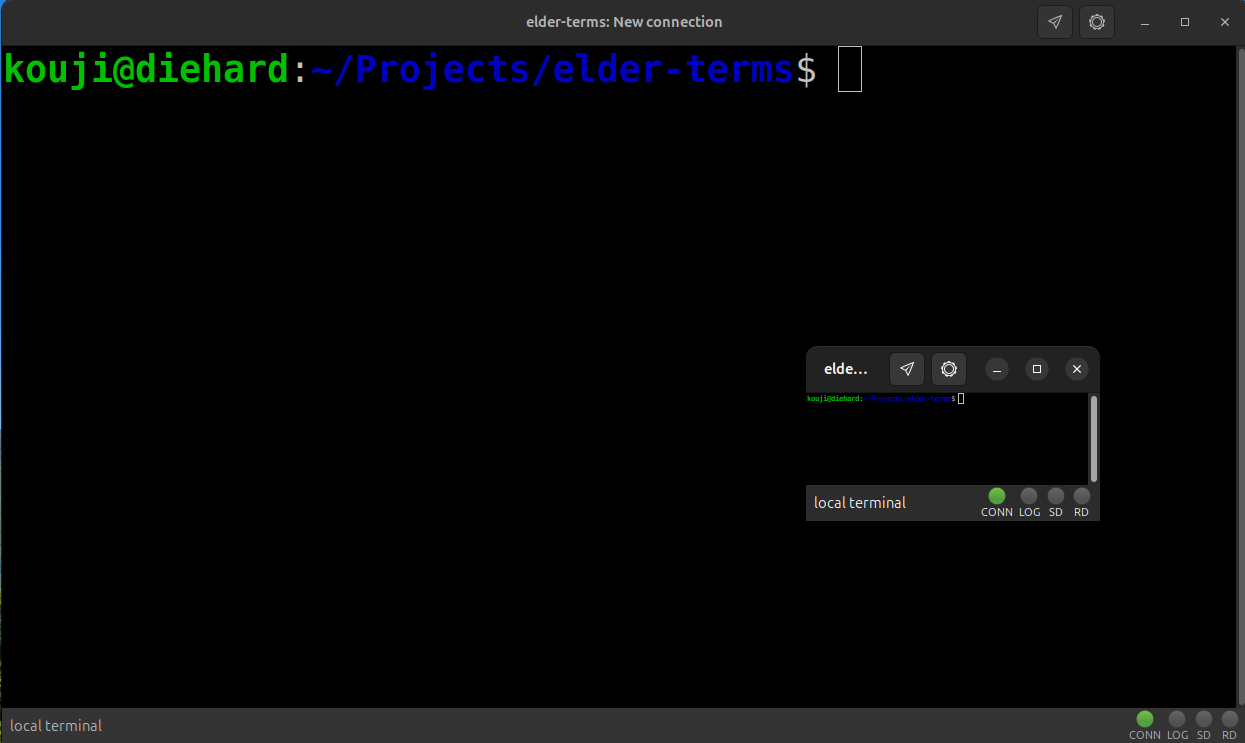
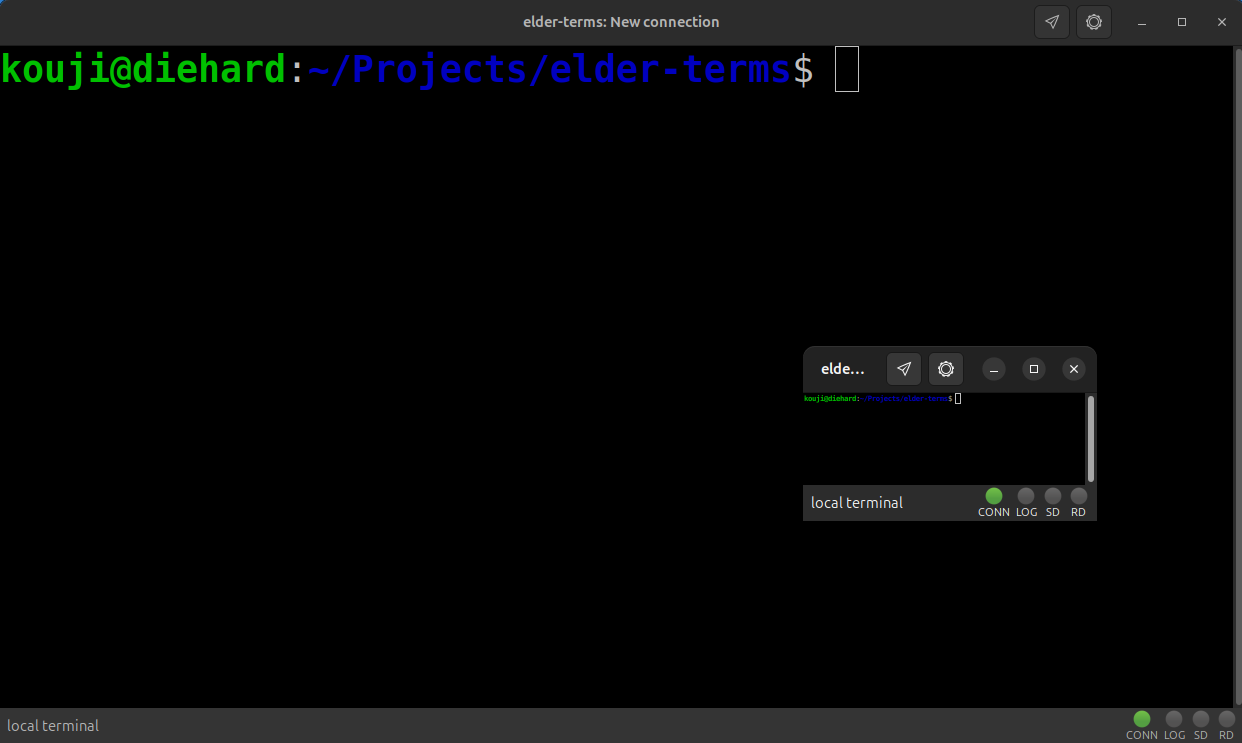
doc: updated readme

diff --git a/README_ja.md b/README_ja.md
@@ -16,11 +16,23 @@
 シリアル接続やTELNET、そしてパソコン通信。すべてが懐かしく、すべてが満たされ、そして全てがコントローラブルだったあの頃。
 現代的な機能も追加して、蘇るターミナル生活。
 
+### 基本的なターミナル
+
 ![Terminal](./images/terminal.png)
+
+### ターミナルランチャー
 
 ![Launcher](./images/launcher-settings.png)
 
+### 複雑な表示
+
 ![Complex terminal](./images/complex-terminal.png)
+
+### シリアルデバイス
+
+![Serial terminal](./images/serial-terminal.png)
+
+### 外郭色のカスタマイズ
 
 ![Colored terminal](./images/colored-terminal.png)
 
@@ -99,13 +111,13 @@ elder-terms
 
 ![Settings (Terminal)](./images/font-size.png)
 
-ターミナルウインドウをどのように配置するのかは、ウインドウマネージャやWaylandコンポジターにまかせてあります。つまり、あなたのウインドウシステムの環境に従って、 `Super` キーなどのキーバインドを活用して下さい。
+ターミナルウインドウをどのように配置するのかは、ウインドウマネージャやWaylandコンポジターに任せてあります。つまり、あなたのウインドウシステムの環境に従って、 `Super` キーなどのキーバインドを活用して下さい。
 
 現代に於いては、IoT開発、つまりはArduinoのようなシリアルデバイスを使ったデバッグやログ採取を行う機会が多いでしょう。elder-termsはそのような環境でも無類の力を発揮します。
 
 ああ、わかっていますとも。アナログモデムの事も忘れていません。そのノスタルジーは、ターミナル下部のインジケータが補ってくれます:
 
-![Indicator](./images/indicator.png)
+![Indicator](./images/serial-indicator.png)
 
 点滅がやけに規則正しくないか、だって？ もちろん。これは [SONY NEWS ワークステーション](https://en.wikipedia.org/wiki/Sony_NEWS) のオマージュですよ。
 
@@ -211,6 +223,9 @@ font_fallback_family=Noto Sans Mono CJK JP
 
 ホットキーは、elder-termsのランチャーが起動している間だけ機能します。
 システムトレイに対応した環境では、ランチャーの「グローバル既定値」で「起動モード」を「システムトレイのみ」または「システムトレイとメインウィンドウ」に設定すると、ランチャーをシステムトレイに常駐させられます。
+
+![System tray](./images/system-tray.png)
+
 ログイン直後からホットキーを使いたい場合は、デスクトップ環境の自動起動アプリケーションに `elder-terms` を登録して下さい。
 
 各接続の「接続を開くショートカット」にキーの組み合わせを設定すると、ランチャーが非表示でも、そのホットキーで接続を直接起動出来ます。
